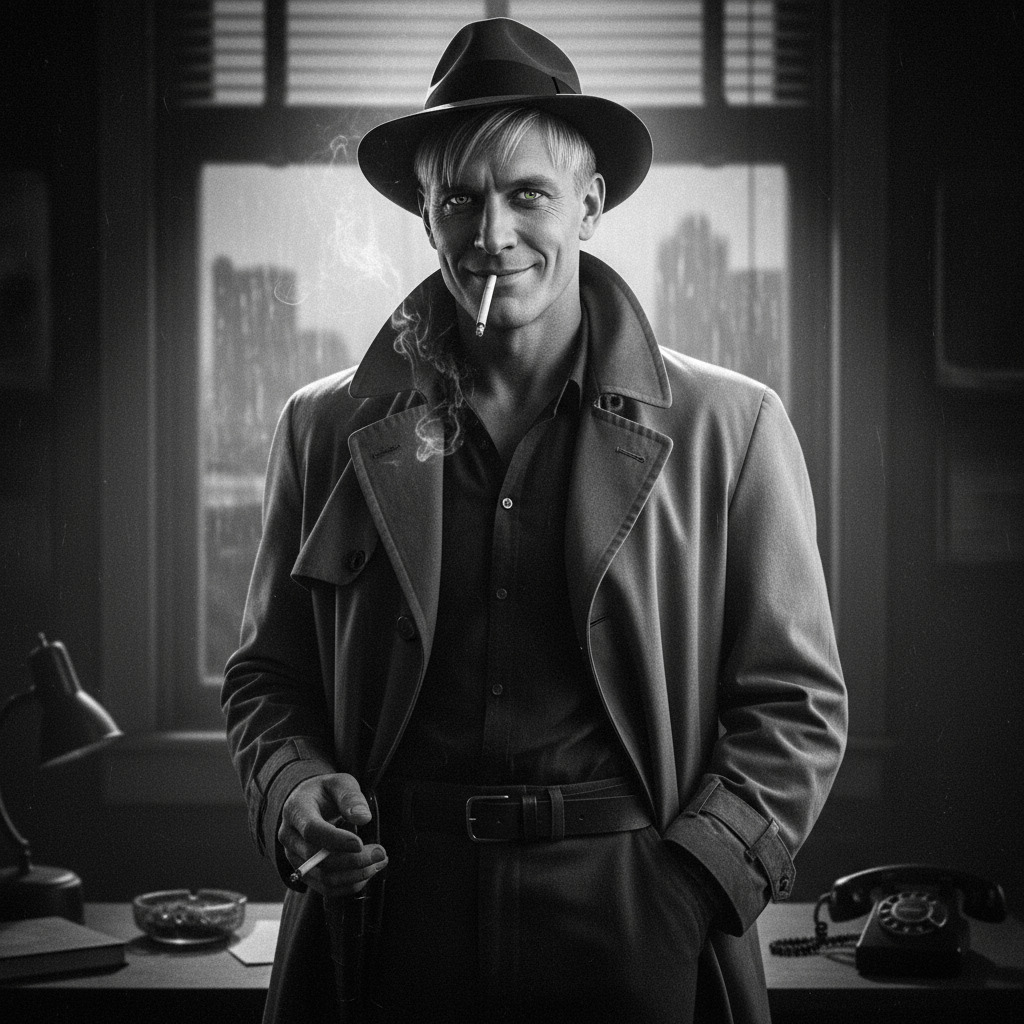
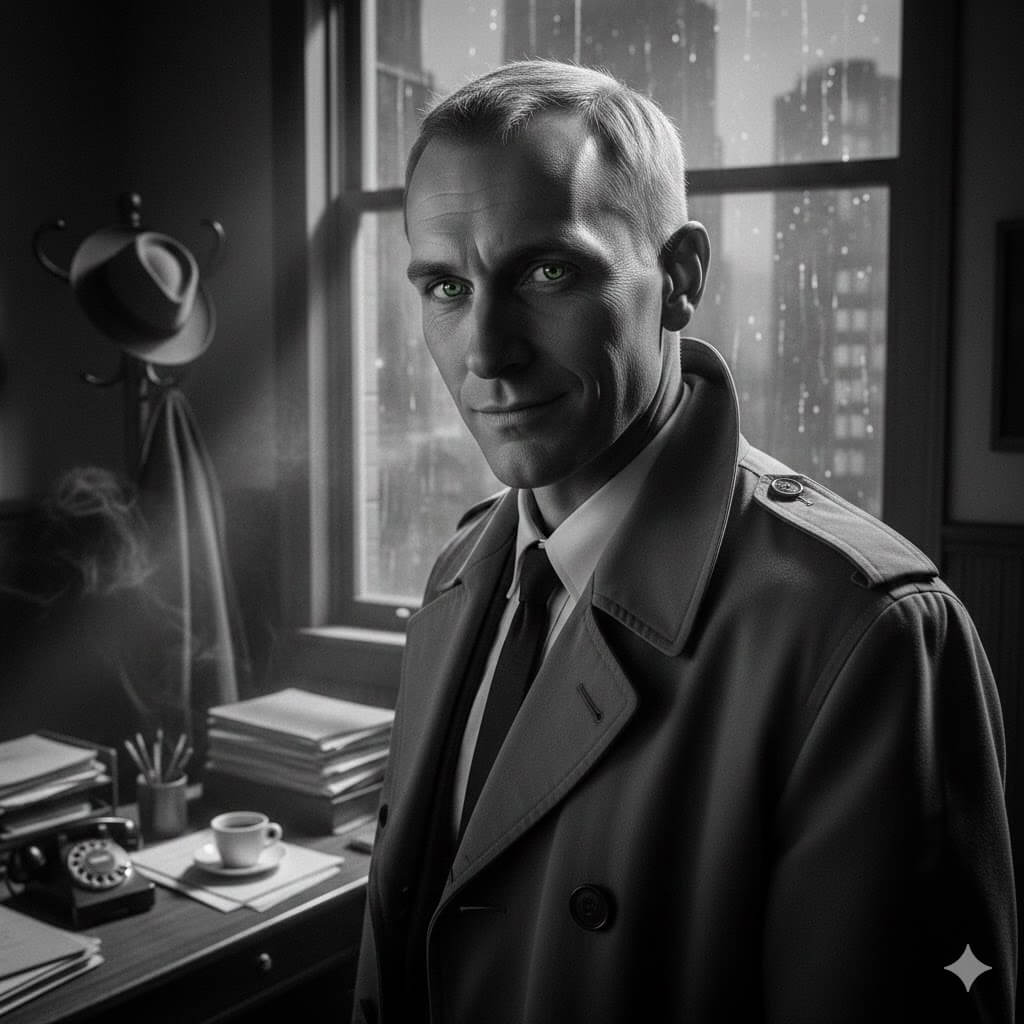
Fix image of Viktor and date in the header

diff --git a/App.tsx b/App.tsx
@@ -133,10 +133,12 @@ const IntroScreen: React.FC<{ onStart: () => void }> = ({ onStart }) => (
     <div className="max-w-2xl w-full border border-zinc-800 p-6 sm:p-8 bg-zinc-900/30 space-y-6 my-auto">
       <div className="flex justify-between items-start border-b border-zinc-800 pb-4">
         <div>
-          <h2 className="text-xl sm:text-2xl font-bold text-zinc-100 tracking-tighter">SKOPJE CONFIDENTIAL</h2>
+          <h2 className="text-xl sm:text-2xl font-bold text-zinc-100 tracking-tighter">CONFIDENTIAL</h2>
           <p className="text-[8px] sm:text-[10px] text-amber-600 uppercase tracking-widest">Dept. Serious Crimes</p>
         </div>
-        <span className="text-zinc-600 font-mono text-[10px] sm:text-xs">LOG_01-2024</span>
+        <span className="text-zinc-600 font-mono text-[10px] sm:text-xs">
+          LOG_{String(new Date().getMonth() + 1).padStart(2, '0')}-{new Date().getFullYear()}
+        </span>
       </div>
       
       <div className="space-y-4 font-mono text-[10px] sm:text-xs text-zinc-400 leading-relaxed max-h-[50vh] overflow-y-auto pr-2">

diff --git a/og-image.html b/og-image.html
@@ -3,7 +3,7 @@
 <head>
     <meta charset="UTF-8">
     <meta name="viewport" content="width=device-width, initial-scale=1.0">
-    <title>OG Image - Skopje Confidential</title>
+    <title>OG Image - Confidential</title>
     <style>
         * {
             margin: 0;
